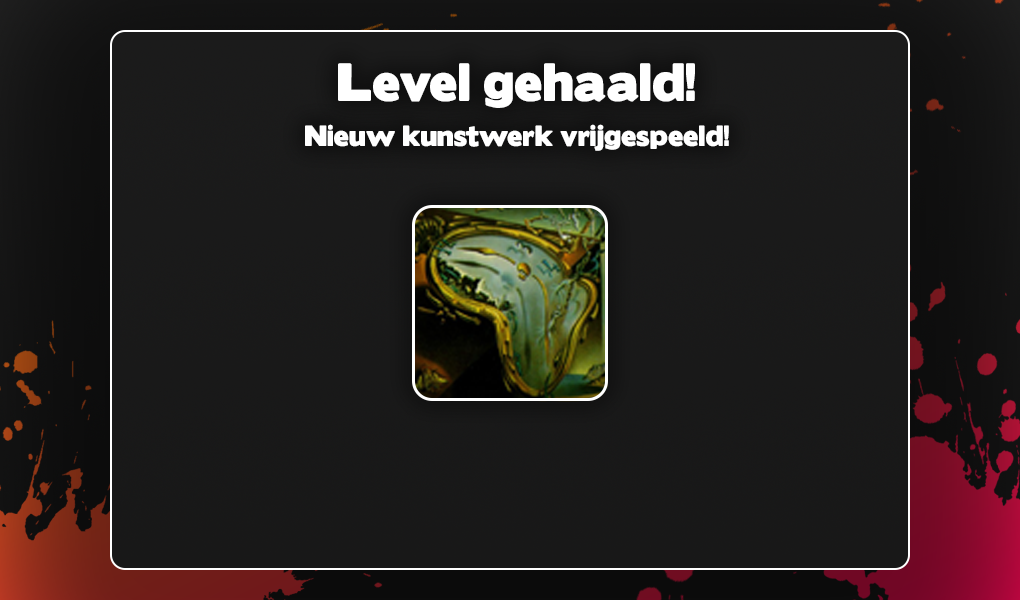
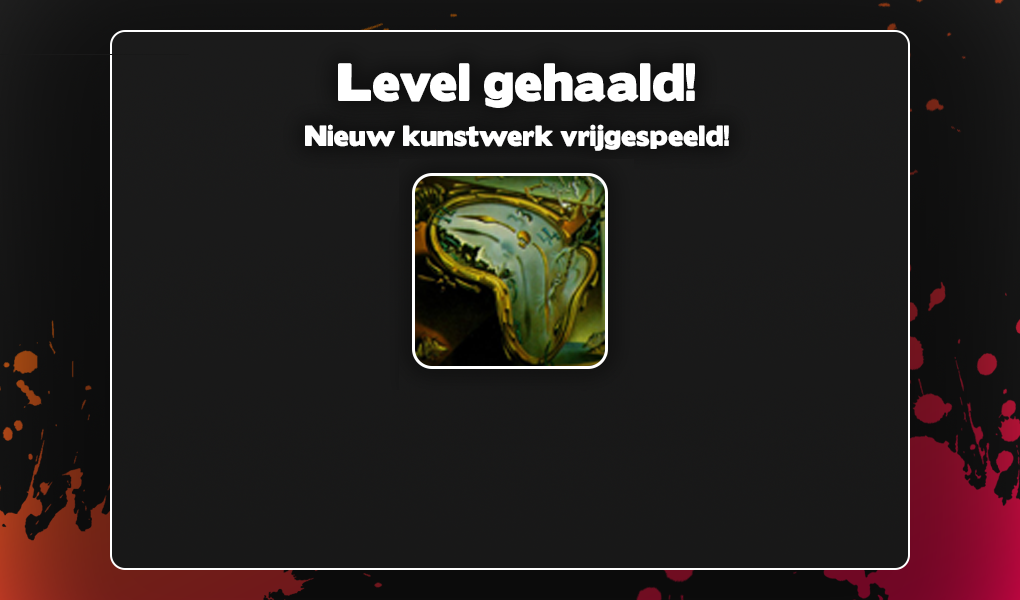
made levelcomplete ui a bit more pleasing to the eye (no offence)

Changed region(s): [[0.3951, 0.27, 0.6078, 0.69]]

diff --git a/src/LevelOneComplete.ts b/src/LevelOneComplete.ts
@@ -40,20 +40,16 @@ module MyGame {
 
 			let style = { font: "bold 50px Assistant", fill: "#ffffff" };
 
-			this.artPieceScoreDisplay = this.game.add.text((this.game.width/2)-175, this.game.height/2+110, this.game.artpieces1 + '/4', style)
-
-			this.timerDisplay = this.game.add.text((this.game.width/2)-15, this.game.height/2+110, String(this.game.timer1), style)
-
-			this.livesDisplay = this.game.add.text((this.game.width/2)+170, this.game.height/2+110, String(this.game.lives), style)
-
 			// Loading icons
-			this.life = this.add.sprite((this.game.width/2)+140, (this.game.height/2)+117, 'uiLife')
-			this.piece = this.add.sprite((this.game.width/2)-60, (this.game.height/2)+100, 'uiClock')
-			this.clock = this.add.sprite((this.game.width/2)-215, (this.game.height/2)+112, 'uiPiece')
+			this.piece = this.add.sprite((this.game.width/2)-275, (this.game.height/2)+95, 'uiPiece')
+			this.artPieceScoreDisplay = this.game.add.text((this.game.width/2)-235, this.game.height/2+95, this.game.artpieces1 + '/4', style)
+			
+			this.clock = this.add.sprite((this.game.width/2)-70, (this.game.height/2)+95, 'uiClock')
+			this.timerDisplay = this.game.add.text((this.game.width/2)-40, this.game.height/2+95, String(this.game.timer1), style)
 
-			// this.life.anchor.setTo(0.5, 0.5)
-			// this.clock.anchor.setTo(0.5, 0.5)
-			// this.piece.anchor.setTo(0.5, 0.5)
+			this.livesDisplay = this.game.add.text((this.game.width/2)+255, this.game.height/2+95, String(this.game.lives), style)
+			this.life = this.add.sprite((this.game.width/2)+215, (this.game.height/2)+105, 'uiLife')
+
 			this.life.anchor.setTo(0.5, 0)
 			this.clock.anchor.setTo(0.5, 0)
 			this.piece.anchor.setTo(0.5, 0)

diff --git a/src/LevelTwoComplete.ts b/src/LevelTwoComplete.ts
@@ -40,20 +40,16 @@ module MyGame {
 
 			let style = { font: "bold 50px Assistant", fill: "#ffffff" };
 
-			this.artPieceScoreDisplay = this.game.add.text((this.game.width/2)-175, this.game.height/2+110, this.game.artpieces1 + '/4', style)
-
-			this.timerDisplay = this.game.add.text((this.game.width/2)-15, this.game.height/2+110, String(this.game.timer1), style)
-
-			this.livesDisplay = this.game.add.text((this.game.width/2)+170, this.game.height/2+110, String(this.game.lives), style)
-
 			// Loading icons
-			this.life = this.add.sprite((this.game.width/2)+140, (this.game.height/2)+117, 'uiLife')
-			this.piece = this.add.sprite((this.game.width/2)-60, (this.game.height/2)+100, 'uiClock')
-			this.clock = this.add.sprite((this.game.width/2)-215, (this.game.height/2)+112, 'uiPiece')
+			this.piece = this.add.sprite((this.game.width/2)-275, (this.game.height/2)+95, 'uiPiece')
+			this.artPieceScoreDisplay = this.game.add.text((this.game.width/2)-235, this.game.height/2+95, this.game.artpieces1 + '/4', style)
+			
+			this.clock = this.add.sprite((this.game.width/2)-70, (this.game.height/2)+95, 'uiClock')
+			this.timerDisplay = this.game.add.text((this.game.width/2)-40, this.game.height/2+95, String(this.game.timer1), style)
 
-			// this.life.anchor.setTo(0.5, 0.5)
-			// this.clock.anchor.setTo(0.5, 0.5)
-			// this.piece.anchor.setTo(0.5, 0.5)
+			this.livesDisplay = this.game.add.text((this.game.width/2)+255, this.game.height/2+95, String(this.game.lives), style)
+			this.life = this.add.sprite((this.game.width/2)+215, (this.game.height/2)+105, 'uiLife')
+
 			this.life.anchor.setTo(0.5, 0)
 			this.clock.anchor.setTo(0.5, 0)
 			this.piece.anchor.setTo(0.5, 0)

diff --git a/src/LevelThreeComplete.ts b/src/LevelThreeComplete.ts
@@ -40,21 +40,19 @@ module MyGame {
 
 			let style = { font: "bold 50px Assistant", fill: "#ffffff" };
 
-			this.artPieceScoreDisplay = this.game.add.text(this.game.width/2, this.game.height/2-70, this.game.artpieces3 + '/4', style)
-
-			this.timerDisplay = this.game.add.text(this.game.width/2, this.game.height/2-20, String(this.game.timer3), style)
-
-			this.livesDisplay = this.game.add.text(this.game.width/2, this.game.height/2+30, String(this.game.lives), style)
-
 			// Loading icons
-			this.life = this.add.sprite((this.game.width/2)-50, this.game.height/2+38, 'uiLife')
-			this.piece = this.add.sprite((this.game.width/2)-50, this.game.height/2-16, 'uiClock')
-			this.clock = this.add.sprite((this.game.width/2)-50, this.game.height/2-70, 'uiPiece')
+			this.piece = this.add.sprite((this.game.width/2)-275, (this.game.height/2)+95, 'uiPiece')
+			this.artPieceScoreDisplay = this.game.add.text((this.game.width/2)-235, this.game.height/2+95, this.game.artpieces1 + '/4', style)
+			
+			this.clock = this.add.sprite((this.game.width/2)-70, (this.game.height/2)+95, 'uiClock')
+			this.timerDisplay = this.game.add.text((this.game.width/2)-40, this.game.height/2+95, String(this.game.timer1), style)
+
+			this.livesDisplay = this.game.add.text((this.game.width/2)+255, this.game.height/2+95, String(this.game.lives), style)
+			this.life = this.add.sprite((this.game.width/2)+215, (this.game.height/2)+105, 'uiLife')
 
 			this.life.anchor.setTo(0.5, 0)
 			this.clock.anchor.setTo(0.5, 0)
 			this.piece.anchor.setTo(0.5, 0)
-
 
 			console.log("level one complete!")
 		}
